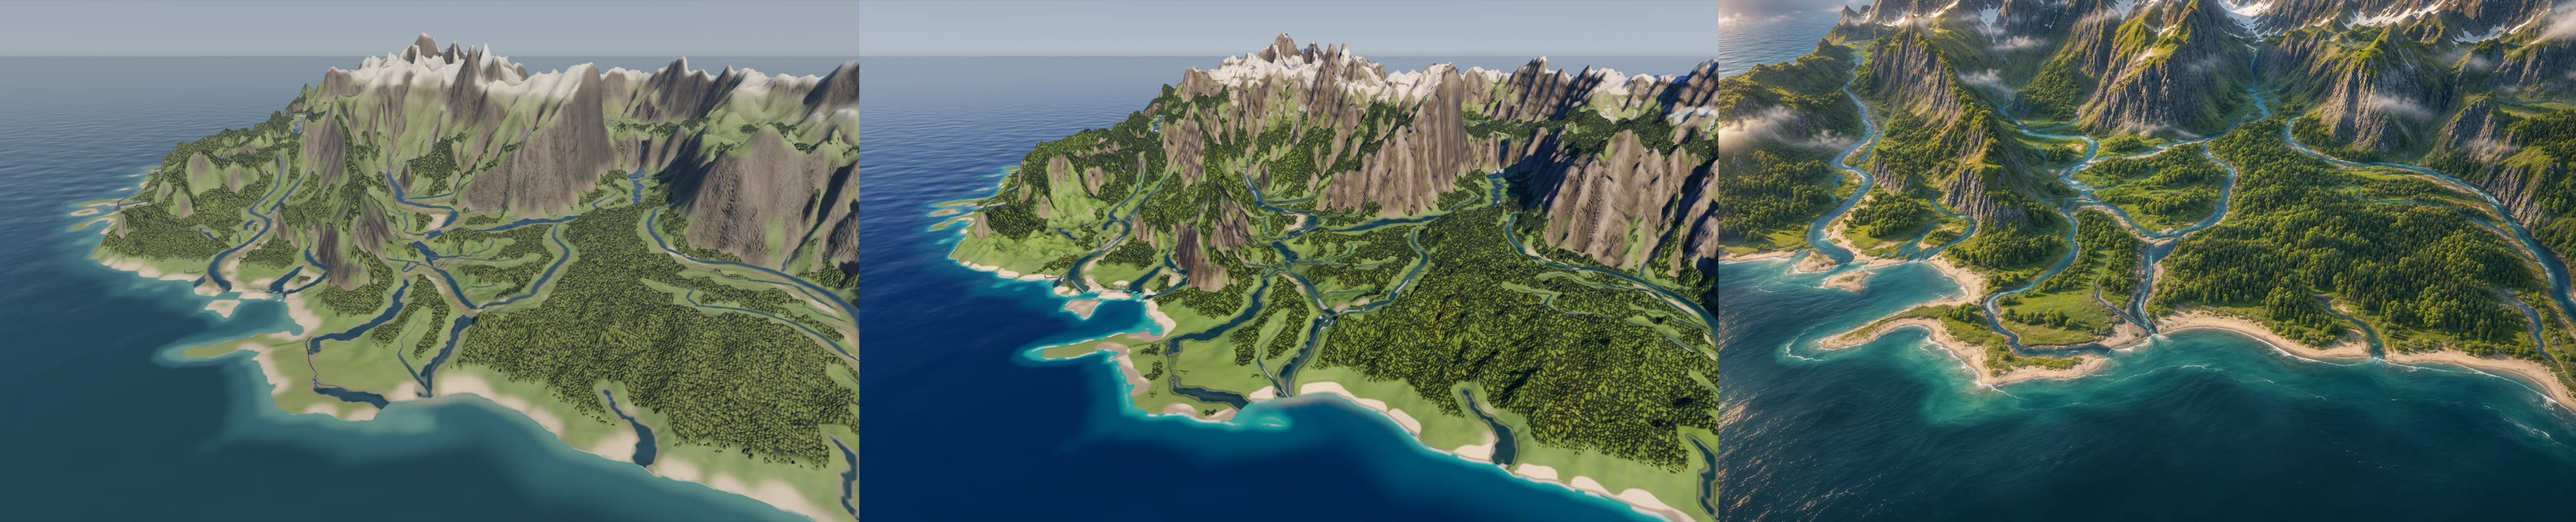
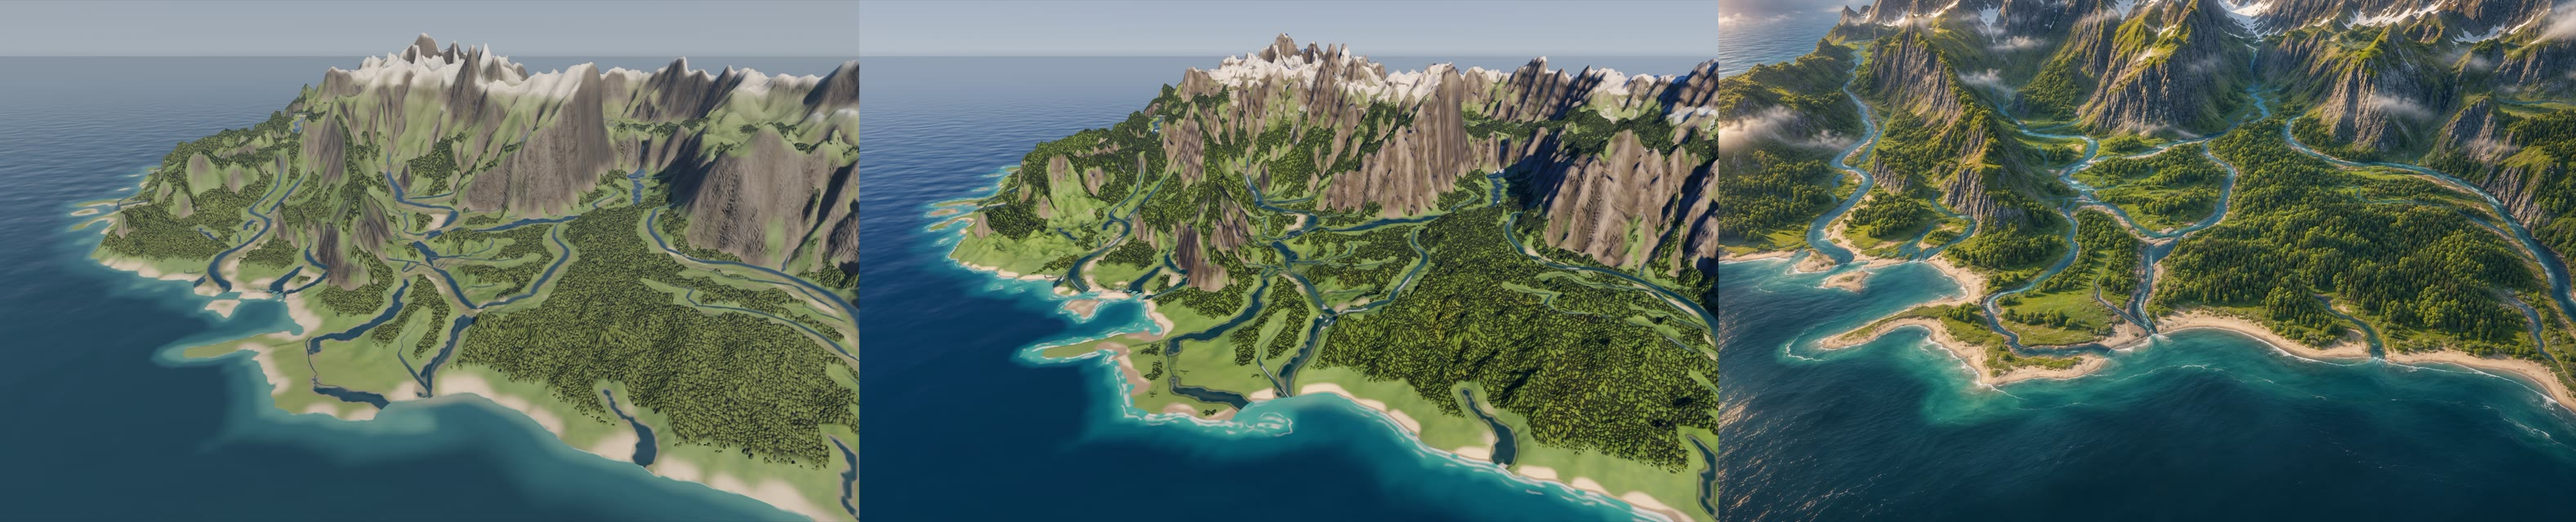
Coast closer to the reference: offshore breakers, wider shelf with sediment streaks
Two broken breaker lines off the shore, a wider cloudy turquoise shelf,
beaches that fade into grass earlier and river plumes that reach further
across the shelf.

Look hill-climb iteration 16 against the state before, pooled over 90
verdicts: A 6 B 40 TIE 44.

Changed region(s): [[0.3729, 0.5, 0.6525, 1.0], [0.3418, 0.375, 0.3729, 0.5], [0.3729, 0.3438, 0.4039, 0.375]]

diff --git a/SimCore/Sources/SimCore/WaterRender.swift b/SimCore/Sources/SimCore/WaterRender.swift
@@ -1234,53 +1234,37 @@ public enum WaterRender {
     /// Wassertiefe (Sim-Höheneinheiten unter `seaLevel`), ab der das Meer voll
     /// tief gefärbt ist. 0.06 ≈ 1,4 Welteinheiten ≈ 140 m.
     public static let oceanDepthSpan = 0.06
-    /// Farbe über dem flachen Schelf direkt an der Küste: kräftiges Türkis.
-    /// Hill-Climber Nr. 8 (Problem 4, Referenz d/e): vorher 0,09/0,27/0,27,
-    /// das las sich unter Himmelsspiegelung als verwaschener Graugrün-Hof.
-    public static let oceanShallowColor = (r: 0.02, g: 0.36, b: 0.34)
-    /// Farbe am Knick zwischen Schelf und Hang (gesättigtes Petrol) …
-    /// (vorher 0,030/0,125/0,165)
-    public static let oceanMidColor = (r: 0.006, g: 0.090, b: 0.150)
-    /// … und im tiefen Wasser sowie außerhalb des Sim-Quadrats: sattes,
-    /// dunkles Blau statt Graublau (vorher 0,012/0,050/0,082).
-    public static let oceanDeepColor = (r: 0.003, g: 0.022, b: 0.080)
-    /// Lage des Knicks auf der normierten Tiefe 0…1. Vorher 0,25: der
-    /// Türkis-Anteil reichte bis weit über den verrauschten Schelf und lag
-    /// dort als wolkiger Hof. Mit 0,17 bleibt der helle Verlauf am küstennahen
-    /// Strandprofil (`Terrain.wavePass`), das der Küstenlinie folgt.
-    public static let oceanMidDepth = 0.17
-    /// Breite des Brandungssaums auf der normierten Tiefe (nur der äußerste
-    /// Küstenrand). Vorher 0,045 (Wassersäule 0,0027): auf den seichten
-    /// Delta-Flächen (Barrenfuß bis `deltaTopset` unter dem Meer, Rinnen
-    /// dazwischen) lag damit über die ganze Fläche Schaum in Rausch-Flecken,
-    /// statt eines Saums an der Wasserlinie (Bögen § Delta). 0,02 (0,0012):
-    /// an offener Küste fällt der Grund ohnehin binnen einer Zelle durch das
-    /// Fenster, der Saum dort bleibt.
-    ///
-    /// Hill-Climber Nr. 8: Die Tiefe des Saums misst seitdem die SCHARFE
-    /// Wassersäule (bilineare Höhe wie die Küstenlinie), nicht den geglätteten
-    /// Schelf; sonst wanderte der Saum als Schleier vor die Küste. 0,05 der
-    /// Spanne (0,003) ≈ eine Zelle Küstenrampe: ein schmaler Strich an der
-    /// Wasserlinie.
-    public static let oceanSurfDepth = 0.05
-    /// Untergrenze der Küstenneigung (dh/dp in Welteinheiten) für Brandung:
-    /// darunter (flache Sandbarren, Seichtwasser, Lagunen) bricht keine Welle.
-    public static let oceanSurfSlopeLo = 0.003
-    /// Obergrenze der Küstenneigung: ab hier schäumt die Brandung voll.
-    public static let oceanSurfSlopeHi = 0.008
-    /// Farbe der Brandung …
-    /// (Nr. 8: weiß statt grau, vorher 0,80/0,85/0,86) …
+    /// Meerfarben von der Sandbank bis zum offenen Meer (Hill-Climber Nr. 16).
+    /// Das Blau im Tiefwasser zieht leicht ins Petrol wie in Referenz d/e.
+    public static let oceanShallowColor = (r: 0.055, g: 0.39, b: 0.33)
+    public static let oceanMidColor = (r: 0.012, g: 0.123, b: 0.156)
+    public static let oceanDeepColor = (r: 0.005, g: 0.038, b: 0.069)
+    /// Knick der Farbkurve (normierte Schelftiefe). Der breitere Verlauf gibt
+    /// Sandbänken und Rinnen Raum, ohne die Tiefenfarbe aufzuhellen.
+    public static let oceanMidDepth = 0.31
+    /// Statisches Rauschen (je Welteinheit) und sein Einfluss auf die
+    /// Schelftiefe. Nur die Färbung liest die gestörte Tiefe.
+    public static let oceanShoalScale = 0.85
+    public static let oceanShoalDepthVariation = 0.68
+    /// Breite des Schaums unmittelbar an der scharfen Wasserlinie (Nr. 8).
+    public static let oceanSurfDepth = 0.055
+    /// Neigungsfenster fürs Brechen der Wellen am Schelf.
+    public static let oceanSurfSlopeLo = 0.0019
+    public static let oceanSurfSlopeHi = 0.006
+    /// Wellenkämme und Gischt vor der Wasserlinie, in Welteinheiten.
+    public static let oceanBreakerSpacing = 0.40
+    public static let oceanBreakerWidth = 0.15
+    /// Tiefe, bis zu der sich Brecher seewärts gut abheben (normiert).
+    public static let oceanBreakerDepth = 0.29
+    /// Maximaler Anteil der äußeren Wellenkämme gegenüber dem Ufersaum.
+    public static let oceanBreakerStrength = 0.71
+    /// Farbe und maximaler Anteil des Schaums an der Wasserfarbe.
     public static let oceanSurfColor = (r: 0.92, g: 0.95, b: 0.96)
-    /// … und ihr höchster Anteil an der Wasserfarbe (vorher 0,55, las sich
-    /// in der Übersicht nicht als Brandung).
-    public static let oceanSurfStrength = 0.9
-    /// Rausch-Fenster, das den Saum bricht (nur Rauschwerte darüber schäumen).
-    /// Nr. 8: vorher 0,35…0,75, der Saum zerfiel in Einzelflecken; jetzt eine
-    /// Linie mit Lücken.
-    public static let oceanSurfNoiseLo = 0.30
-    public static let oceanSurfNoiseHi = 0.55
-    /// Vor Mündungen bricht keine Brandung: die Sedimentfahne (`plume`,
-    /// Dichte 0…1) löscht den Saum mit diesem Faktor (Nr. 8).
+    public static let oceanSurfStrength = 0.98
+    /// Rausch-Fenster, das die Linien in einzelne Brecher auflöst.
+    public static let oceanSurfNoiseLo = 0.27
+    public static let oceanSurfNoiseHi = 0.64
+    /// Die Trübung dämpft den Schaum über der Mündungsrinne.
     public static let oceanSurfPlumeCut = 3.0
     /// Rausch-Frequenz der Brechung (je Welteinheit) …
     public static let oceanSurfScale = 3.1
@@ -1379,6 +1363,9 @@ public enum WaterRender {
     /// Hill-Climber Nr. 8: vorher 5 (≈ 78 m), las sich als breite Kleckse;
     /// 3 ließ gerade, offene Küste fast ohne Strand (`CoastMaterialTests`).
     public static let beachMaxWidthCells = 4.0
+    /// Größte Breite des Sand-Gras-Übergangs (Zellen). Der Auslauf wächst
+    /// mit der Strandbreite erst oberhalb der Breite einer Delta-Insel.
+    public static let beachBackshoreFadeCells = 2.0
     /// Radius (Zellen) des Fensters für das Rückland-Relief …
     public static let beachReliefRadiusCells = 8
     /// … Rückland-Relief (Sim-Höhe über der Küstenzelle), bis zu dem die
@@ -1451,7 +1438,7 @@ public enum WaterRender {
     /// Küstenzelle voll Sand ist …
     /// Hill-Climber Nr. 8: vorher 0,008…0,018; die Terrassen dahinter lagen
     /// als breite, aufgesetzte Sandpolster da.
-    public static let beachHeightLo = 0.005
+    public static let beachHeightLo = 0.004
     /// … und ab der sie kein Sand mehr ist. Muss innerhalb des Wellenbands
     /// `SimConfig.waveBand` liegen (Wächter: `CoastMaterialTests`).
     public static let beachHeightHi = 0.011
@@ -1520,7 +1507,7 @@ public enum WaterRender {
     // der Küste, dazu ein lehmbrauner Ton bei 60 % Deckung. Das ist ersetzt.
 
     /// Mündungen unter diesem Einzugsgebiet (Zellen) bekommen keine Fahne.
-    public static let plumeMinDischargeCells = 9000.0
+    public static let plumeMinDischargeCells = 3200.0
     /// Einzugsgebiet (Zellen), ab dem das Abfluss-Gewicht voll ist (log-Rampe
     /// zwischen `plumeMinDischargeCells` und diesem Wert).
     public static let plumeFullDischargeCells = 18000.0
@@ -1535,13 +1522,12 @@ public enum WaterRender {
     public static let plumeDecayCells = 18.0
     /// Der Pfad endet bei dieser Zahl von Abklinglängen (Dichte dort e^−3,5 ≈ 3 %).
     public static let plumeCutoffDecays = 3.5
-    /// Breite des Streifens (Zellen Abstand zum Land), in dem die Fahne liegen
-    /// darf: sie hält sich an der Küste (5 Zellen ≈ 78 m). Der alte Fächer war
-    /// bis zu 32 Zellen breit.
-    public static let plumeBandCells = 5.0
+    /// Breite des Streifens (Zellen Abstand zum Land). Die Fahne reicht
+    /// über den küstennahen Schelf bis zu den unterseeischen Delta-Fächern.
+    public static let plumeBandCells = 8.0
     /// Bis zu diesem Abstand zum Land (Zellen) ist die Dichte voll; zum Rand
     /// des Streifens blendet sie aus.
-    public static let plumeCoreCells = 2.0
+    public static let plumeCoreCells = 2.5
     /// Aufschlag der Pfadkosten gegen die Strömung: stromab 1×, quer 1 + p/2,
     /// stromauf 1 + p. Mit 2 klingt die Fahne stromauf auf einem Drittel der
     /// Länge ab.
@@ -1550,10 +1536,9 @@ public enum WaterRender {
     /// Weichzeichnung der Dichte im Shader (Mip-Stufe der Textur, 2^lod Zellen).
     public static let oceanPlumeLod = 1.0
     /// Höchster Anteil der Trübung an der Wasserfarbe.
-    public static let oceanPlumeOpacity = 0.7
-    /// Farbe der Trübung (Schwebstoff, blasses Lehmgrün; der alte Ton (0,42 0,38
-    /// 0,27) bei 60 % Deckung las sich als orangebrauner Rauch).
-    public static let oceanPlumeColor = (r: 0.44, g: 0.43, b: 0.32)
+    public static let oceanPlumeOpacity = 0.85
+    /// Farbe sedimentreicher Untiefen vor den Mündungen (Türkis mit Sandton).
+    public static let oceanPlumeColor = (r: 0.20, g: 0.45, b: 0.34)
 
     // MARK: Mäandergürtel im Render (Issue #174, Paket C Teil 2)
 
@@ -1755,17 +1740,17 @@ public enum WaterRender {
     /// der Wasserlinie nasser, dunkler Sand, dahinter heller trockener. Gilt
     /// im Terrain-Shader nur bis `beachHeightHi` über dem Meer; Bänke im
     /// Binnenland behalten `barSand*` (Mischung über Rauschen).
-    public static let beachDryColor = (r: 0.80, g: 0.74, b: 0.60)
+    public static let beachDryColor = (r: 0.82, g: 0.75, b: 0.55)
     /// s. `beachDryColor`.
-    public static let beachWetColor = (r: 0.33, g: 0.32, b: 0.26)
+    public static let beachWetColor = (r: 0.33, g: 0.30, b: 0.22)
     /// Höhe über dem Meer (Sim-Einheiten), bis zu der der Sand nass ist; der
     /// Übergang läuft bis zum Doppelten. ≈ eine Zelle Küstenrampe.
     public static let beachWetHeight = 0.0008
-    /// Rückkante des Strands: das (bilinear weiche) Sandgewicht wird über
-    /// dieses Fenster zu einer klaren Kante geschärft, nur im Strandband.
-    public static let beachEdgeLo = 0.35
+    /// Rückkante des Strands: hier mischt der Shader das Sandgewicht
+    /// in den Grasbewuchs über, nur im Strandband.
+    public static let beachEdgeLo = 0.32
     /// s. `beachEdgeLo`.
-    public static let beachEdgeHi = 0.55
+    public static let beachEdgeHi = 0.82
 
     /// Tiefenfarbe im Band nach dem Querprofil (Vorlage E): `UV2.y` trägt die
     /// signierte Bogenstärke (`MeanderState.bendStrength`, −1 … +1). Am

diff --git a/SimCore/Sources/SimRender/CoastMaterial.swift b/SimCore/Sources/SimRender/CoastMaterial.swift
@@ -205,7 +205,8 @@ public enum CoastMaterial {
             inherited[k] = Float(WaterRender.deltaIslandBeachCells)
             inheritedCliff[k] = 0
         }
-        var reach = beachReach(terrain, seeds: seeds, width: inherited)
+        var reach = beachReach(terrain, seeds: seeds, width: inherited,
+                               fadeCells: WaterRender.beachBackshoreFadeCells)
         clearRiverBeds(terrain, seeds: seeds, reach: &reach)
         let surfWidths = [Float](repeating: Float(WaterRender.coastReachCells), count: n * n)
         var surf = beachReach(terrain, seeds: seeds, width: surfWidths)
@@ -263,19 +264,24 @@ public enum CoastMaterial {
 
     /// Kreisförmige Säume je Küstenpunkt statt Breitensuche mit 8 gleichen
     /// Schrittlängen. Deren quadratische Ausbreitung plus wechselnde Breite
-    /// erzeugte die Rauten im Sand, obwohl das Gelände dort glatt war.
-    static func beachReach(_ terrain: Terrain, seeds: [Int], width: [Float]) -> [Float] {
+    /// erzeugte die Rauten im Sand, obwohl das Gelände dort glatt war. Ein
+    /// breiterer Auslauf am Strand gibt den hinteren Zellen weniger Sand.
+    static func beachReach(_ terrain: Terrain, seeds: [Int], width: [Float],
+                           fadeCells: Double = 1) -> [Float] {
         let n = terrain.cfg.n, h = terrain.h, sea = terrain.cfg.sea
         var out = [Float](repeating: 0, count: n * n)
         for k in seeds where width[k] > 0 {
             let w = Double(width[k]), r = Int(w.rounded(.up))
+            let backshore = smoothstep(WaterRender.deltaIslandBeachCells, WaterRender.beachMaxWidthCells, w)
+            let fade = 1 + (fadeCells - 1) * backshore
             let i = k % n, j = k / n
             for jj in max(0, j - r)...min(n - 1, j + r) {
                 for ii in max(0, i - r)...min(n - 1, i + r) {
                     let nb = jj * n + ii
                     guard h[nb] > sea else { continue }
                     let dx = Double(ii - i), dz = Double(jj - j)
-                    let reach = Float(min(1, max(0, w - (dx * dx + dz * dz).squareRoot())))
+                    let distance = (dx * dx + dz * dz).squareRoot()
+                    let reach = Float(clamp01((w - distance) / fade))
                     out[nb] = max(out[nb], reach)
                 }
             }

diff --git a/SimCore/Tests/SimCoreTests/WaterRenderTests.swift b/SimCore/Tests/SimCoreTests/WaterRenderTests.swift
@@ -584,11 +584,18 @@ final class WaterRenderTests: XCTestCase {
 
     func testOceanDepthWindowsStayInOrder() {
         // Die Tiefe ist (sea_level − h) / oceanDepthSpan, geklemmt auf 0…1.
-        // Brandungssaum < Knick seicht→mittel < volle Tiefe: der Saum liegt
-        // nur am äußersten Küstenrand, nicht über dem ganzen Schelf.
+        // Der Saum liegt an der Wasserlinie, die Brecher enden vor dem
+        // Übergang in mitteltiefes Wasser.
         XCTAssertGreaterThan(WaterRender.oceanDepthSpan, 0)
         XCTAssertGreaterThan(WaterRender.oceanSurfDepth, 0)
-        XCTAssertLessThan(WaterRender.oceanSurfDepth, WaterRender.oceanMidDepth)
+        XCTAssertLessThan(WaterRender.oceanSurfDepth, WaterRender.oceanBreakerDepth)
+        XCTAssertLessThanOrEqual(WaterRender.oceanBreakerDepth, WaterRender.oceanMidDepth)
+        XCTAssertGreaterThan(WaterRender.oceanBreakerWidth, 0)
+        XCTAssertLessThan(2 * WaterRender.oceanBreakerWidth, WaterRender.oceanBreakerSpacing,
+                          "Zwischen den Wellenkämmen bleibt offenes Wasser")
+        XCTAssertTrue((0...1).contains(WaterRender.oceanBreakerStrength))
+        XCTAssertTrue((0...1).contains(WaterRender.oceanShoalDepthVariation),
+                      "Die Schlieren lassen die Schelftiefe positiv")
         XCTAssertLessThan(WaterRender.oceanMidDepth, 1)
         XCTAssertGreaterThan(WaterRender.oceanSurfStrength, 0)
         XCTAssertLessThanOrEqual(WaterRender.oceanSurfStrength, 1)

diff --git a/SimCore/Tests/SimCoreTests/CoastMaterialTests.swift b/SimCore/Tests/SimCoreTests/CoastMaterialTests.swift
@@ -23,6 +23,22 @@ final class CoastMaterialTests: XCTestCase {
         XCTAssertEqual(reach[center + 3 * cfg.n + 3], 0, "Sand reicht diagonal über den Kreis hinaus")
         XCTAssertGreaterThan(reach[center + 2 * cfg.n + 3], 0)
         XCTAssertLessThan(reach[center + 2 * cfg.n + 3], 0.5)
+
+        let beach = CoastMaterial.beachReach(t, seeds: [center], width: widths,
+                                             fadeCells: WaterRender.beachBackshoreFadeCells)
+        XCTAssertEqual(beach[center], 1, "Sand bleibt an der Wasserlinie")
+        XCTAssertLessThan(beach[center + 3], reach[center + 3], "Landeinwärts läuft der Sand in Gras aus")
+
+        widths[center] = Float(WaterRender.deltaIslandBeachCells)
+        let bank = CoastMaterial.beachReach(t, seeds: [center], width: widths,
+                                            fadeCells: WaterRender.beachBackshoreFadeCells)
+        XCTAssertEqual(bank, CoastMaterial.beachReach(t, seeds: [center], width: widths),
+                       "Schmale Strände und Delta-Inseln behalten ihren Sand")
+
+        widths[center] = 0.4
+        let thin = CoastMaterial.beachReach(t, seeds: [center], width: widths,
+                                            fadeCells: WaterRender.beachBackshoreFadeCells)
+        XCTAssertEqual(thin[center], 0.4, "Schwaches Strandpotenzial bleibt schwach")
     }
 
     /// Kleine Welt: Spalten `i < shore` flaches Meer, rechts davon Land mit der Höhe

diff --git a/SimCore/Tests/SimCoreTests/CalibrationRegistryTests.swift b/SimCore/Tests/SimCoreTests/CalibrationRegistryTests.swift
@@ -62,6 +62,12 @@ final class CalibrationRegistryTests: XCTestCase {
             "water_specular": .scalar(WaterRender.waterSpecular),
             "water_ocean_depth_span": .scalar(WaterRender.oceanDepthSpan),
             "water_ocean_mid_depth": .scalar(WaterRender.oceanMidDepth),
+            "water_ocean_shoal_scale": .scalar(WaterRender.oceanShoalScale),
+            "water_ocean_shoal_depth_variation": .scalar(WaterRender.oceanShoalDepthVariation),
+            "water_ocean_breaker_spacing": .scalar(WaterRender.oceanBreakerSpacing),
+            "water_ocean_breaker_width": .scalar(WaterRender.oceanBreakerWidth),
+            "water_ocean_breaker_depth": .scalar(WaterRender.oceanBreakerDepth),
+            "water_ocean_breaker_strength": .scalar(WaterRender.oceanBreakerStrength),
             "water_ocean_surf_depth": .scalar(WaterRender.oceanSurfDepth),
             "water_ocean_surf_slope_lo": .scalar(WaterRender.oceanSurfSlopeLo),
             "water_ocean_surf_slope_hi": .scalar(WaterRender.oceanSurfSlopeHi),

diff --git a/SimCore/Sources/SimRender/CalibrationRegistry.swift b/SimCore/Sources/SimRender/CalibrationRegistry.swift
@@ -99,6 +99,12 @@ public enum CalibrationRegistry {
         // Offenes Meer (ocean.gdshader, #155).
         ("water_ocean_depth_span", WaterRender.oceanDepthSpan),
         ("water_ocean_mid_depth", WaterRender.oceanMidDepth),
+        ("water_ocean_shoal_scale", WaterRender.oceanShoalScale),
+        ("water_ocean_shoal_depth_variation", WaterRender.oceanShoalDepthVariation),
+        ("water_ocean_breaker_spacing", WaterRender.oceanBreakerSpacing),
+        ("water_ocean_breaker_width", WaterRender.oceanBreakerWidth),
+        ("water_ocean_breaker_depth", WaterRender.oceanBreakerDepth),
+        ("water_ocean_breaker_strength", WaterRender.oceanBreakerStrength),
         ("water_ocean_surf_depth", WaterRender.oceanSurfDepth),
         ("water_ocean_surf_slope_lo", WaterRender.oceanSurfSlopeLo),
         ("water_ocean_surf_slope_hi", WaterRender.oceanSurfSlopeHi),

diff --git a/SimCore/Tests/SimCoreTests/WaterUniformsTests.swift b/SimCore/Tests/SimCoreTests/WaterUniformsTests.swift
@@ -48,6 +48,12 @@ final class WaterUniformsTests: XCTestCase {
     /// Offenes Meer (#155): Tiefen-Farbe über dem Schelf, Brandung, Rausch-Wellen.
     private static let oceanScalars = [
         "water_ocean_depth_span", "water_ocean_mid_depth",
+        "water_ocean_shoal_scale",
+        "water_ocean_shoal_depth_variation",
+        "water_ocean_breaker_spacing",
+        "water_ocean_breaker_width",
+        "water_ocean_breaker_depth",
+        "water_ocean_breaker_strength",
         "water_ocean_surf_depth", "water_ocean_surf_strength",
         "water_ocean_surf_scale", "water_ocean_surf_drift",
         "water_ocean_surf_noise_lo", "water_ocean_surf_noise_hi",

diff --git a/docs/look-hillclimb-log.md b/docs/look-hillclimb-log.md
@@ -176,11 +176,12 @@ Vergleichsstand: Stand nach Nr. 14 (`.tools/look/keep5/`).
 | Nr. | Hypothese | Urteil | Ergebnis | Kernsatz |
 | --- | --- | --- | --- | --- |
 | 15 | Wasser-Reste: gruppierte, kürzere Schaumfahnen; feuchter Boden und fleckiger Kies statt grauem Ring um Raster-Seen; ruhiger Himmelsverlauf auf Seen; stärkerer Himmelsreflex in der Totalen (verworfen, bevor abgegeben) | Implementer, 10 Läufe: A 4 B 3 GLEICH 23 (`diorama` 0/0, `tal` 1/0, `nah` 3/3) | verworfen | Der Bewerter sieht den Unterschied nicht (23 GLEICH). In `nah` hebt sich beides auf: „klar abgesetzte Gischtflecken“ gegen „harte, zackige Weißsplitter“ und eine Wasserfläche, die „stärker mit der Wiese verschwimmt“ (weiches See-Ufer). Schranken grün (667 Tests, Hash unverändert, 17,83 → 17,86 ms). Patch: `.tools/look/it15/patch.diff`. |
+| 16 | Küste wie in der Referenz: zwei vorgelagerte, unterbrochene Brecher, breiterer Schelf mit Sedimentschlieren, Strand läuft früher ins Gras aus, Mündungsfahne reicht weiter über den Schelf | Implementer, 10 Läufe: A 3 B 10 GLEICH 17 (`nah` 1/0, verworfen). Orchestrator, zweimal 10 Läufe: A 2 B 14 GLEICH 14 und A 1 B 16 GLEICH 13 (beide `B_BEHALTEN`). Gepoolt über 90 Urteile: A 6 B 40 GLEICH 44, `diorama` 3/15, `tal` 2/23, `nah` 1/2 | **behalten** | „eine breite, abgestufte Brandungszone mit Schaumkämmen, mehreren Wellenlinien und türkisem Flachwasser mit Tiefenverlauf“. `nah` zeigt die Küste nur am Bildrand und ist fast durchweg GLEICH; die eine A-Stimme dort kippte den ersten Lauf, deshalb zwei weitere Läufe und die Regel auf den Pool angewandt (B − A ≥ 1/3, A ≤ 1/5, keine Aufnahme mit mehr A als B). Schranken grün (667 Tests, Hash unverändert, 17,87 → 17,83 ms). Rest: tiefe Mündungsrinnen enden weiter hart im Meer, einzelne helle Terrassen bleiben. |
 
 ## Abschluss (2026-11-20)
 
 Behalten: Nr. 6 (Wald), Nr. 7 (Fels, Hänge, Schnee), Nr. 8 (Küste), Nr. 10
-(Licht), Nr. 14 (Wasser, mit Nr. 12 und 13). Verworfen: Nr. 1 bis 5 und 11
+(Licht), Nr. 14 (Wasser, mit Nr. 12 und 13), Nr. 16 (Küste, zweiter Schritt). Verworfen: Nr. 1 bis 5 und 11
 (Wasser), Nr. 9 (Licht, erster Anlauf). Die Tabelle darunter ist der Stand
 vor Nr. 14; die Zahlen am Endstand mit Wasser stehen bei Nr. 14.
 
